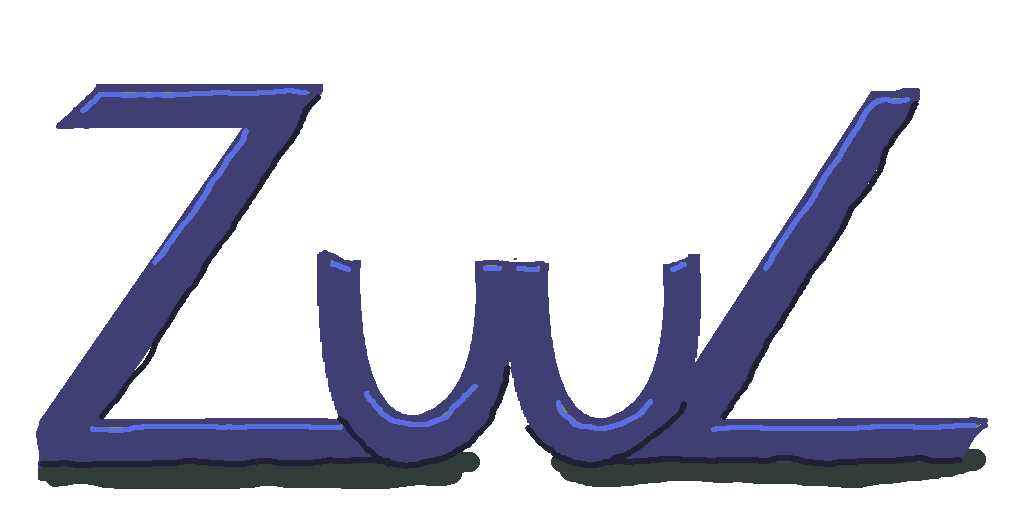
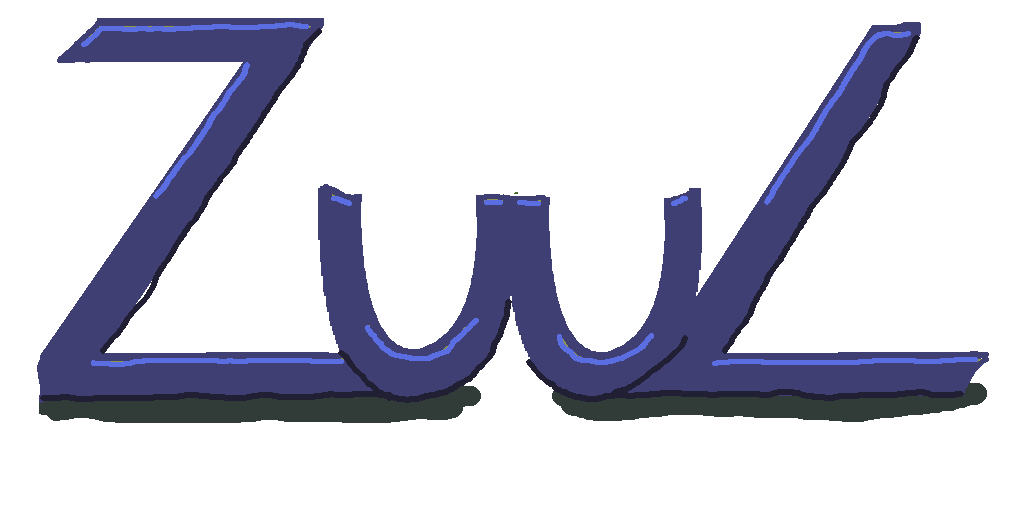
Update title screen assets and enhance functionality
- Replaced title screen images with updated versions for improved visuals.
- Added background texture loading and rendering to the title screen.
- Introduced blinking text feature to enhance user interaction.
- Adjusted frame duration for smoother animation.

These changes improve the overall appearance and functionality of the title screen, contributing to a better user experience.

diff --git a/src/game/title_screen.cpp b/src/game/title_screen.cpp
@@ -8,7 +8,10 @@ namespace zuul
 {
     TitleScreen::TitleScreen()
         : mAnimationTimer(0.0f),
-          mFrameDuration(0.1f), // 10 frames per second
+          mFrameDuration(0.2f), // 5 frames per second
+          mBlinkTimer(0.0f),
+          mBlinkDuration(0.5f), // Blink every half second
+          mShowText(true),
           mCurrentFrame(0),
           mIsDone(false),
           mWindowWidth(0),
@@ -20,6 +23,14 @@ namespace zuul
     {
         // Get window size
         SDL_GetWindowSize(SDL_GL_GetCurrentWindow(), &mWindowWidth, &mWindowHeight);
+
+        // Load background
+        mBackground = renderer->loadTexture("assets/title_screen_background.png");
+        if (!mBackground)
+        {
+            std::cerr << "Failed to load title background: assets/title_screen_background.png" << std::endl;
+            return false;
+        }
 
         // Load all title screen frames
         std::string basePath = "assets/title_screen_";
@@ -76,10 +87,46 @@ namespace zuul
             mAnimationTimer -= mFrameDuration;
             mCurrentFrame = (mCurrentFrame + 1) % mFrames.size();
         }
+
+        // Update text blinking
+        mBlinkTimer += deltaTime;
+        if (mBlinkTimer >= mBlinkDuration)
+        {
+            mBlinkTimer -= mBlinkDuration;
+            mShowText = !mShowText;
+        }
     }
 
     void TitleScreen::render(std::shared_ptr<Renderer> renderer)
     {
+        // Set background color (hex 69bd2f = RGB 105, 189, 47)
+        renderer->clear();
+
+        // Render tiled background
+        if (mBackground)
+        {
+            int bgWidth = mBackground->getWidth();
+            int bgHeight = mBackground->getHeight();
+
+            // Calculate how many tiles we need in each direction
+            int tilesX = (mWindowWidth + bgWidth - 1) / bgWidth;
+            int tilesY = (mWindowHeight + bgHeight - 1) / bgHeight;
+
+            // Render the background tiles
+            for (int y = 0; y <= tilesY; y++)
+            {
+                for (int x = 0; x <= tilesX; x++)
+                {
+                    int destX = x * bgWidth;
+                    int destY = y * bgHeight;
+
+                    renderer->renderTexture(mBackground,
+                                            0, 0, bgWidth, bgHeight,
+                                            destX, destY, bgWidth, bgHeight);
+                }
+            }
+        }
+
         if (mCurrentFrame < mFrames.size())
         {
             auto texture = mFrames[mCurrentFrame];
@@ -100,6 +147,12 @@ namespace zuul
             renderer->renderTexture(texture,
                                     0, 0, texture->getWidth(), texture->getHeight(),
                                     destX, destY, destWidth, destHeight);
+        }
+
+        // Render blinking text in color #211f34
+        if (mShowText)
+        {
+            renderer->renderText("Press any key to start", mWindowWidth / 2 - 100, mWindowHeight - 100, {33, 31, 52, 255});
         }
     }
 }

diff --git a/include/game/title_screen.hpp b/include/game/title_screen.hpp
@@ -19,9 +19,13 @@ namespace zuul
         bool isDone() const { return mIsDone; }
 
     private:
+        std::shared_ptr<Texture> mBackground;
         std::vector<std::shared_ptr<Texture>> mFrames;
         float mAnimationTimer;
         float mFrameDuration;
+        float mBlinkTimer;
+        float mBlinkDuration;
+        bool mShowText;
         size_t mCurrentFrame;
         bool mIsDone;
         int mWindowWidth;
